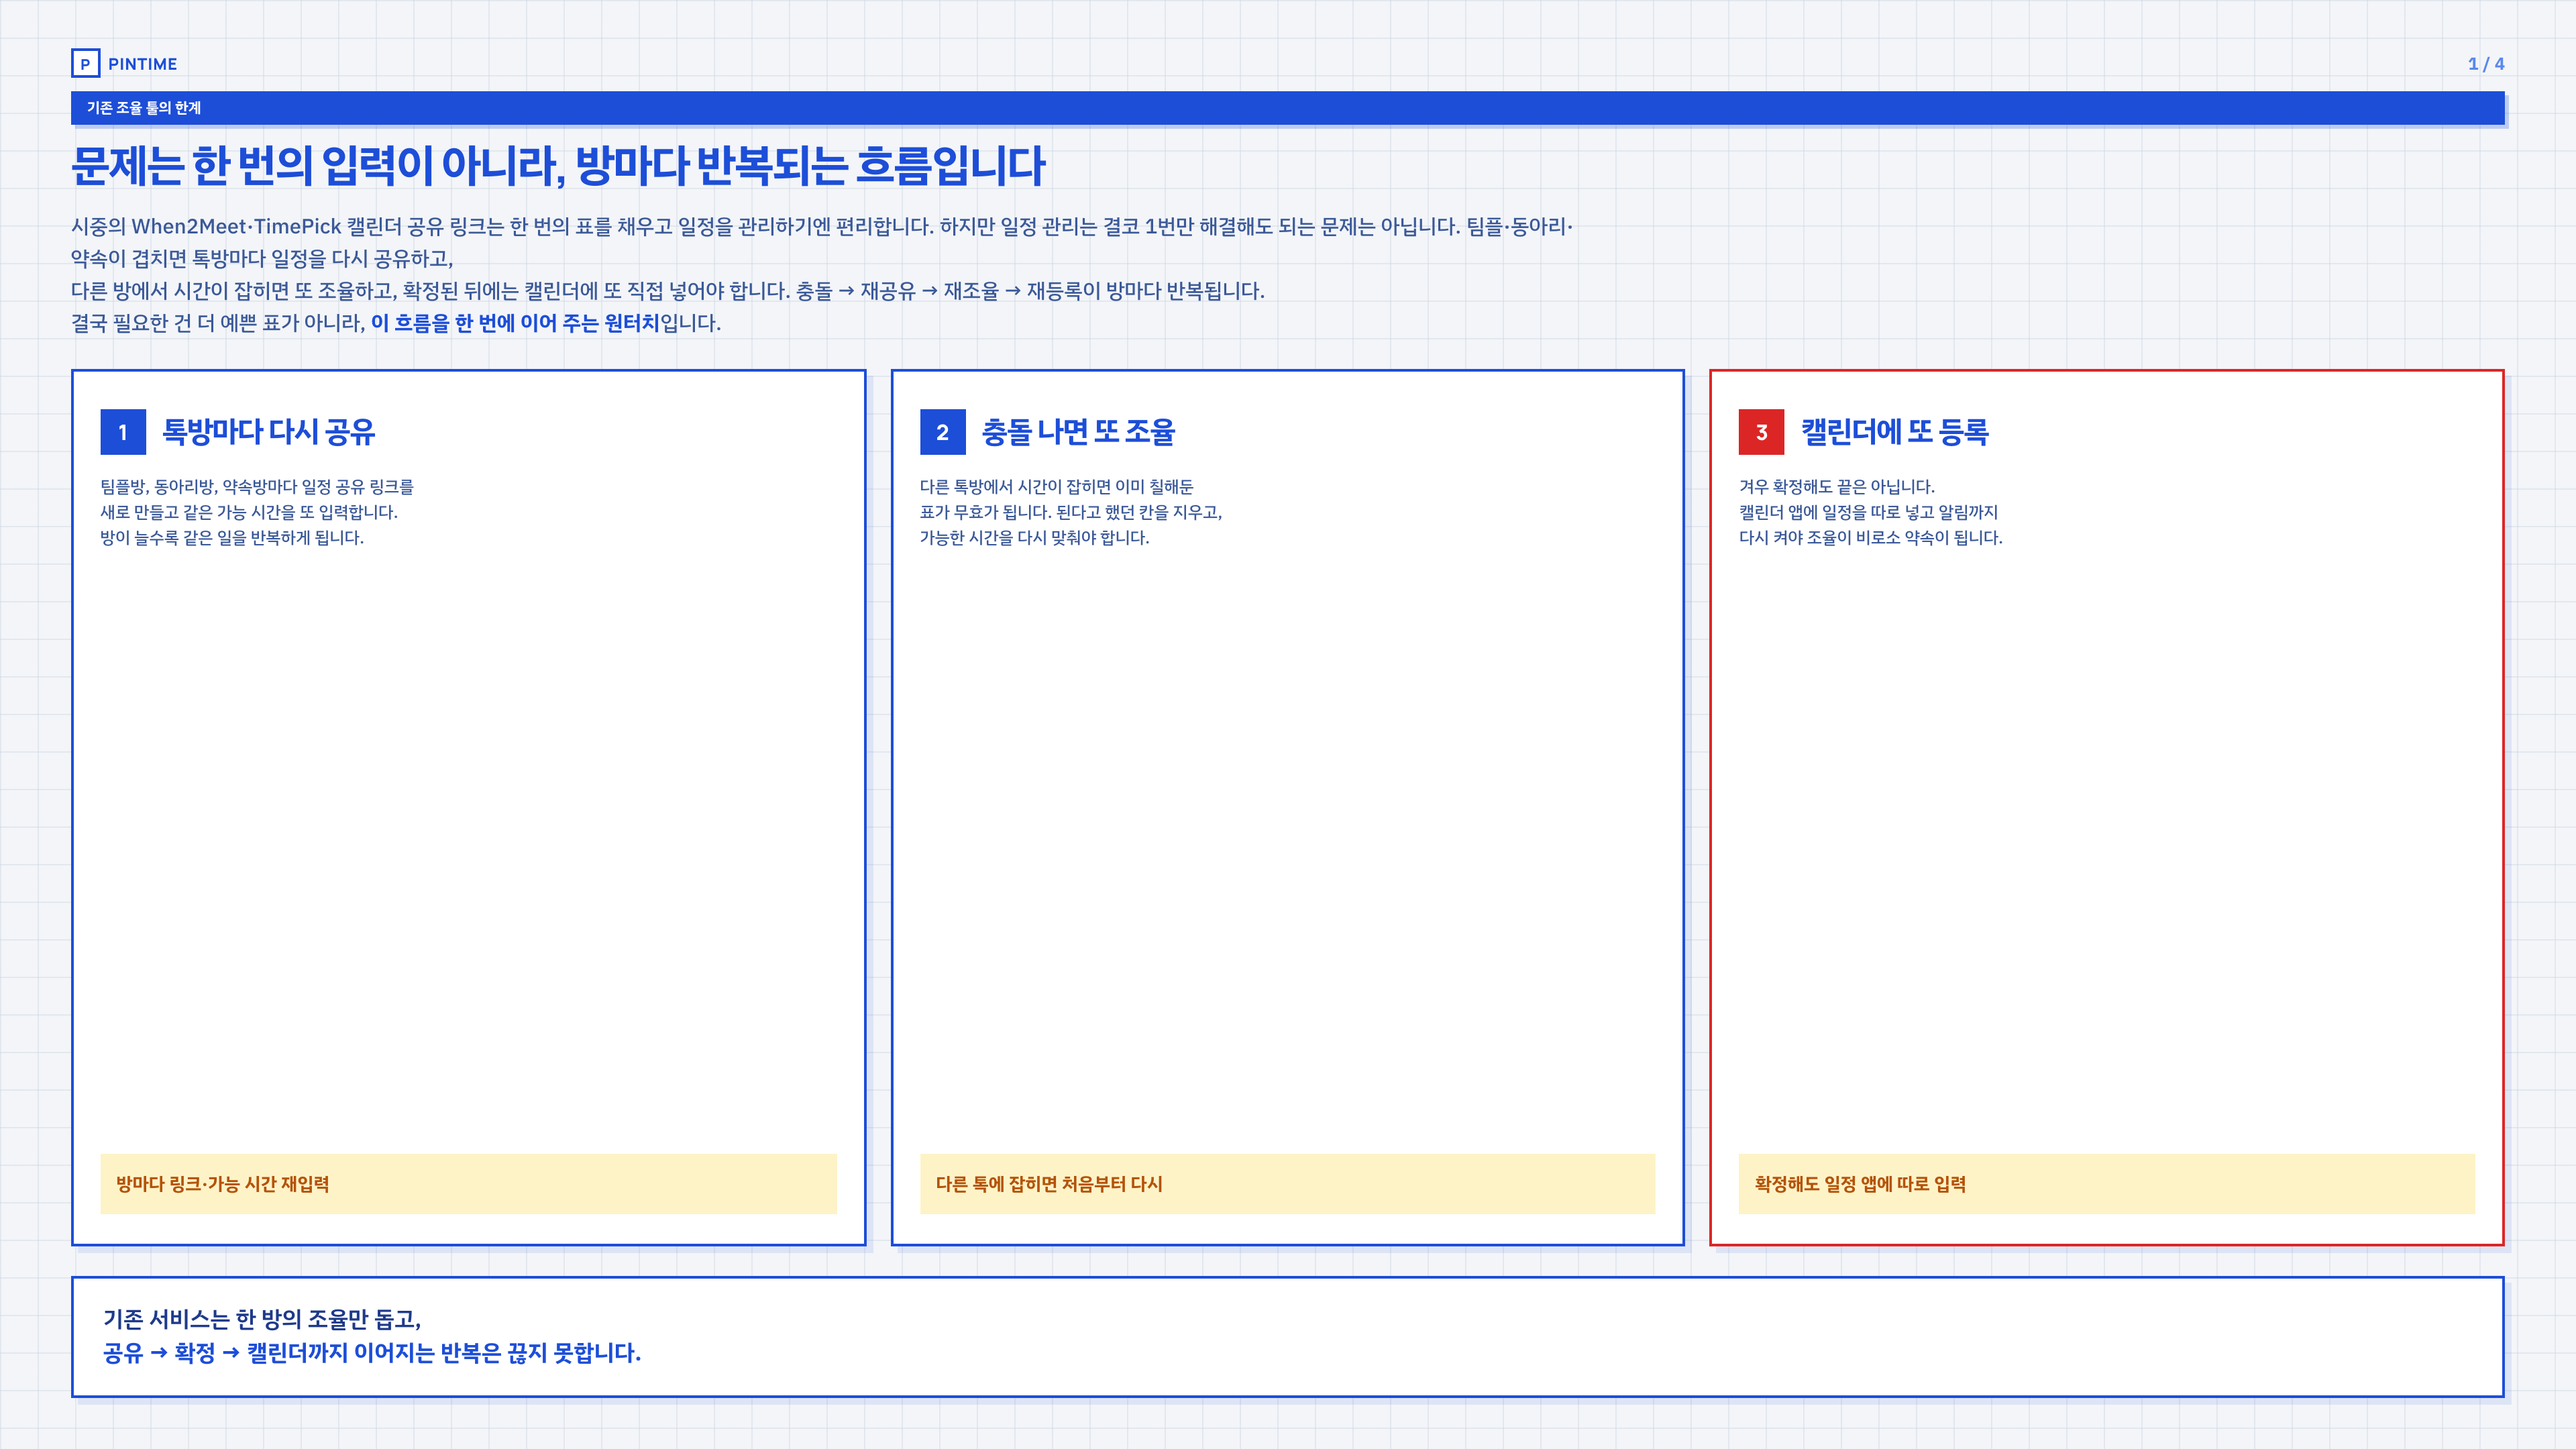
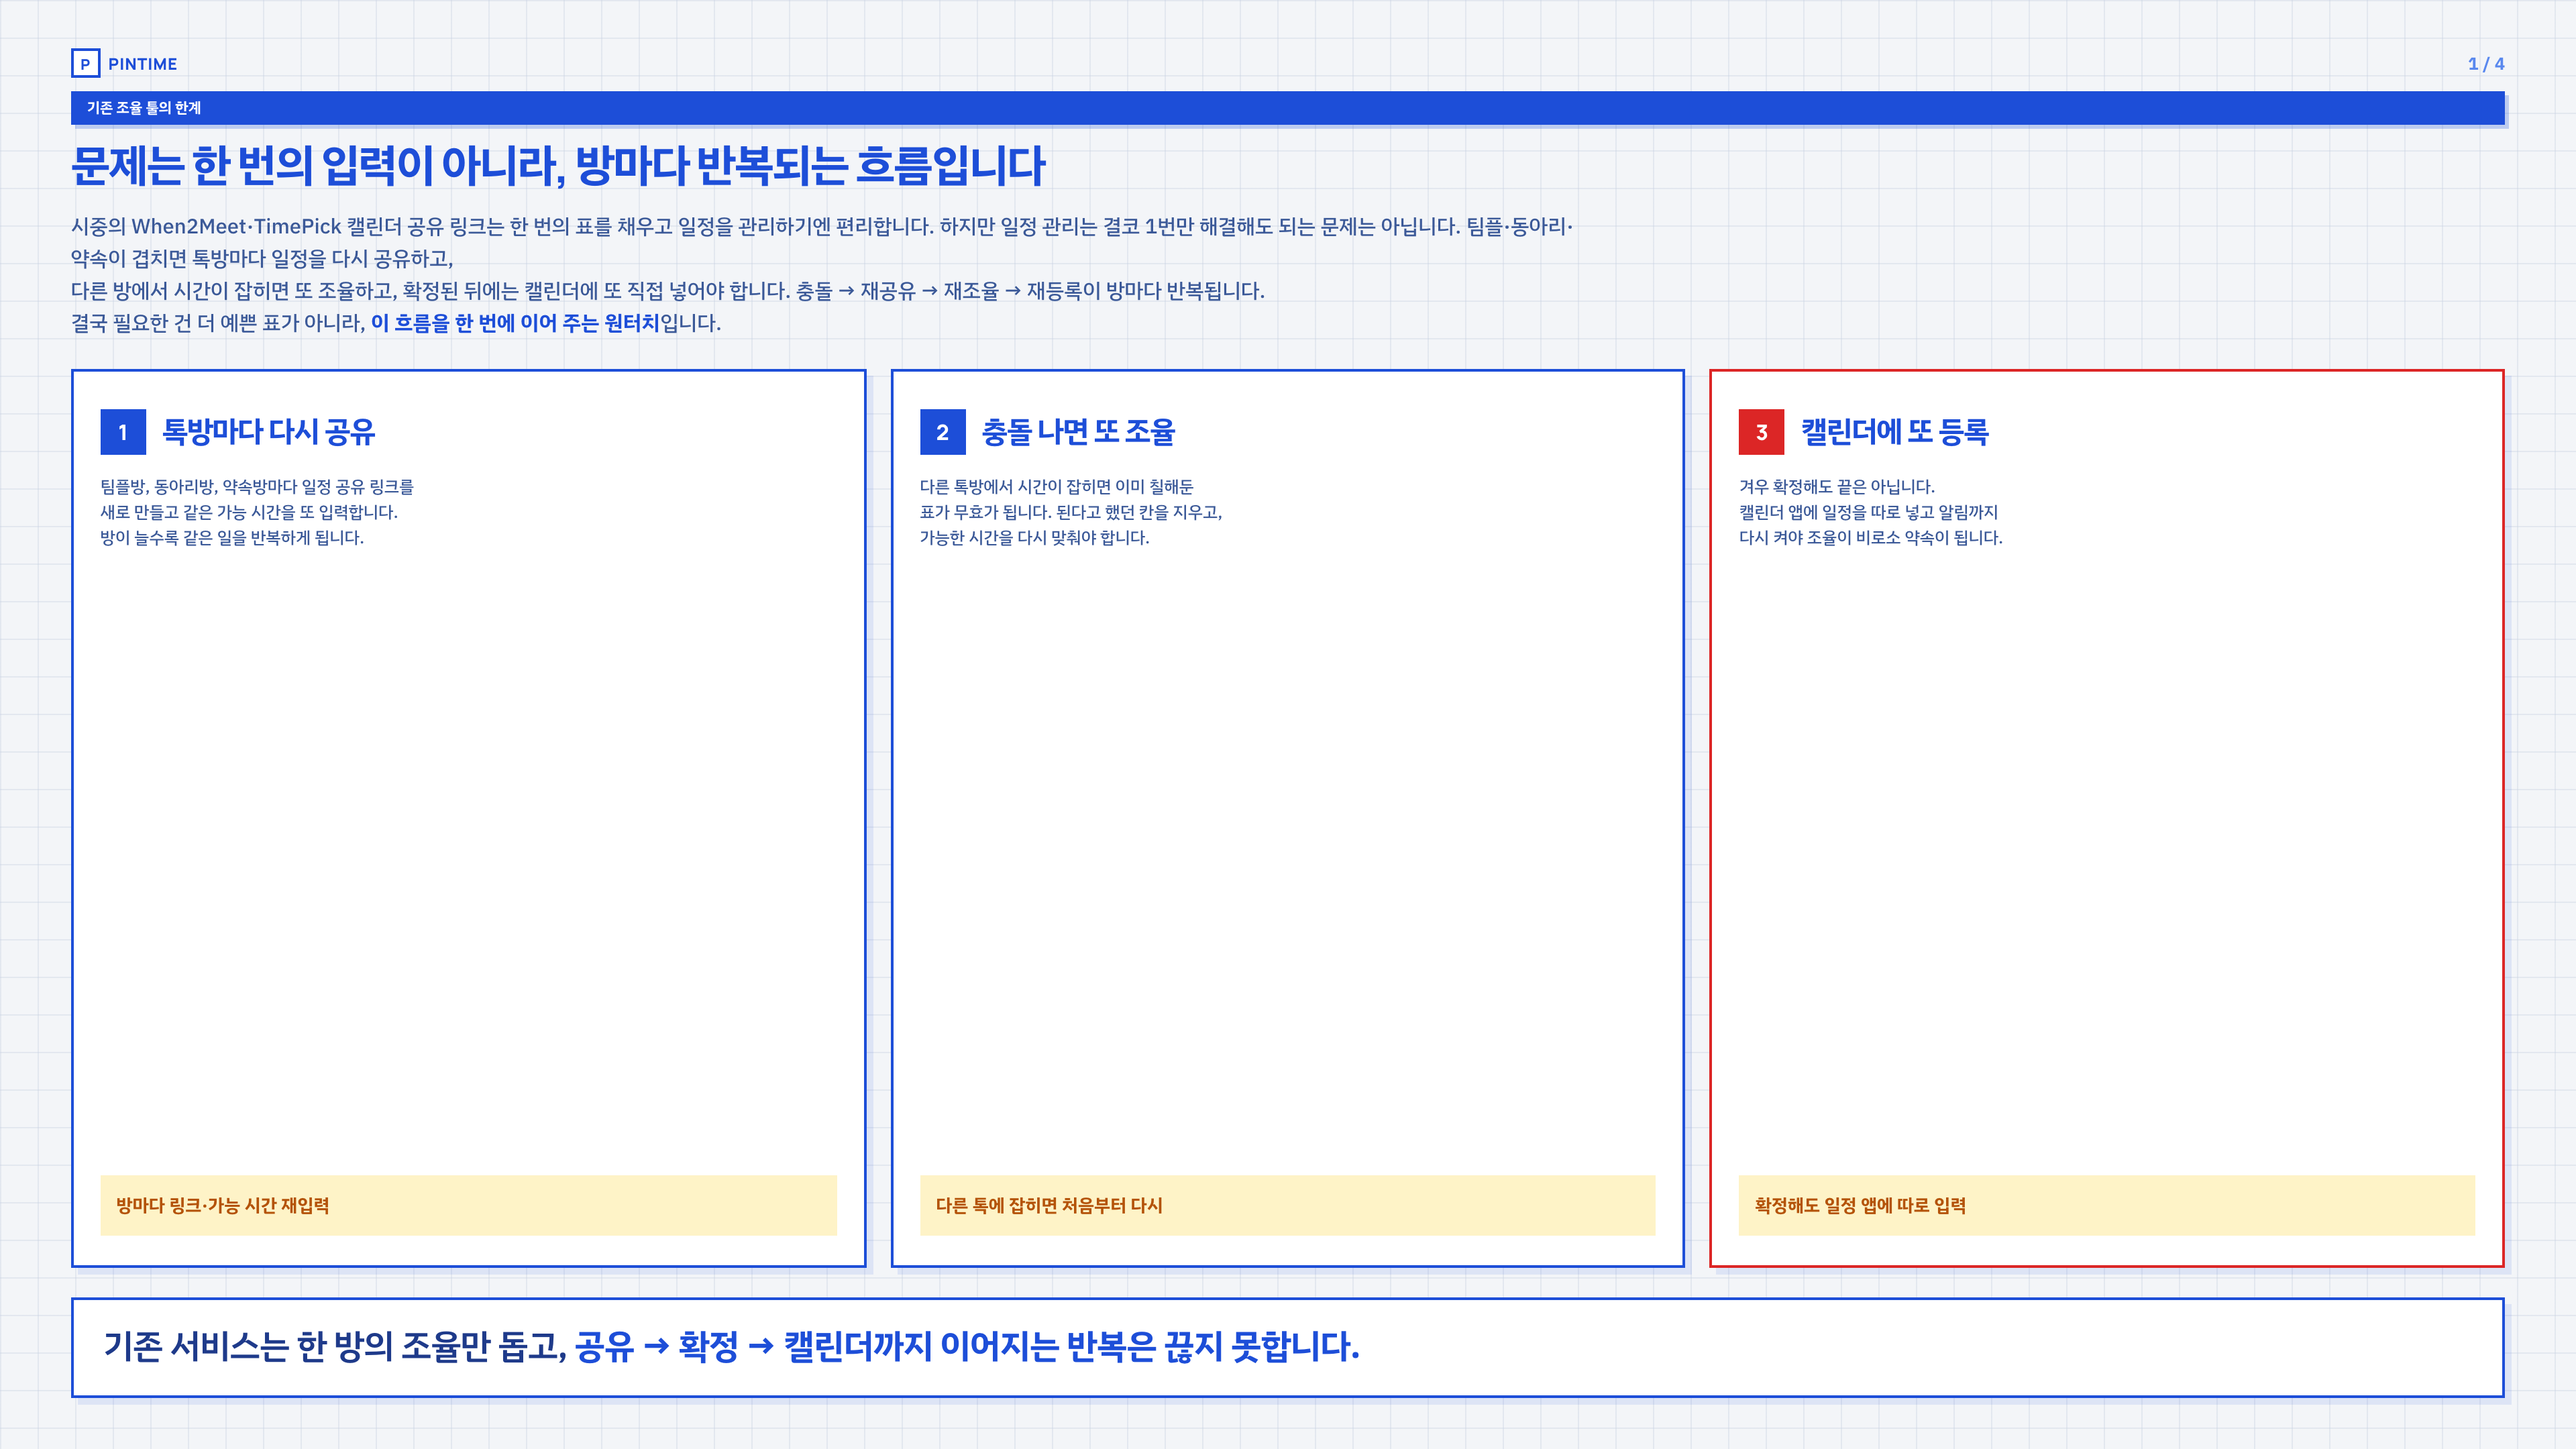
Make problem conclude one line and 1.5x larger.

Changed region(s): [[0.0312, 0.7755, 0.9688, 0.9616]]

diff --git a/public/pitch.html b/public/pitch.html
@@ -498,11 +498,13 @@
         background: #fff;
         border: 2.5px solid var(--blue);
         box-shadow: 5px 5px 0 rgba(29, 78, 216, 0.1);
-        font-size: 17px;
-        line-height: 1.5;
+        font-size: 25.5px;
+        line-height: 1.35;
         color: var(--ink);
         font-weight: 600;
         flex-shrink: 0;
+        white-space: nowrap;
+        letter-spacing: -0.02em;
       }
 
       .ai-pipeline {
@@ -2360,7 +2362,7 @@
           </div>
 
           <div class="problem-conclude">
-            기존 서비스는 한 방의 조율만 돕고,<br />
+            기존 서비스는 한 방의 조율만 돕고,
             <b style="color:var(--blue)">공유 → 확정 → 캘린더까지 이어지는 반복은 끊지 못합니다.</b>
           </div>
         </div>
